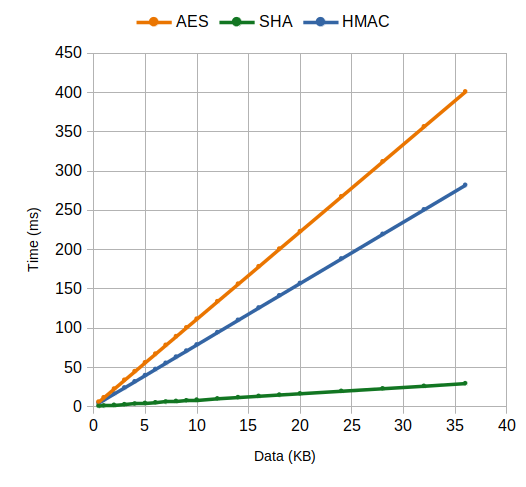
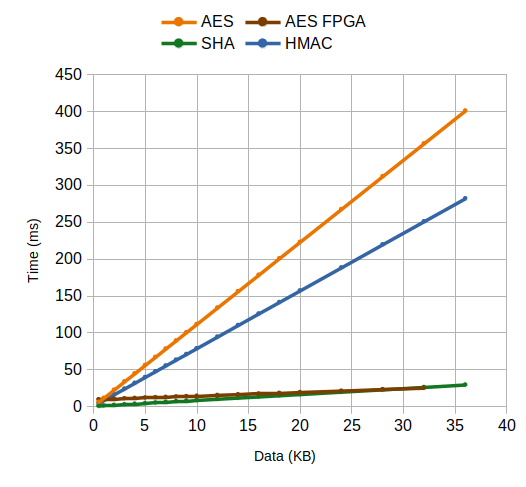
Finished Chapter 6 rework

diff --git a/Chapters/Thesis-MSc-Chapter_6.tex b/Chapters/Thesis-MSc-Chapter_6.tex
@@ -31,6 +31,7 @@ The communication channel performance was measured by transmitting a certain amo
 For the remaining tested components, this test method produced unstable results due to the communications overhead on every test run.
 Thus, the remaining services were tested by running the service 100 times inside the device, for each API call. The measured processing time is divided by 100 to obtain the average time. This method minimizes the communications overhead, since it is only done once, so the isolated service can be more accurately assessed.
 The services were run 100 times inside the device, since it produced below 1\% variance for every test run of every service.
+Due to the write limitations of the PUF and eNVM, the performance tests were performed with only 10 repetition to preserve its write cycles.
 
 The SmartFusion2 and implemented services were tested taking into account three different time components \(T_{Total} = T_{Call} + T_{Transmittion} + T_{Service}\). The \(T_{Call}\) component is the elapsed time for invoking the PKCS\#11 API, before any data is transmitted. From the results, we can conclude that the impact of this component on the performance is negligible, since it is practically always 0.
 The data transmission time follows the performance behaviour of the communications channel.
@@ -69,12 +70,9 @@ The performance of the data channel, in milliseconds, can be modelled by a linea
 % -----------------------------------------------------
 \subsection{SmartFusion2 Services}\label{chap:evaluation:board}
 
-% TODO - AES FPGA core test results!!!!
-
-All the security accelerators of the SmartFusion2 SoC were tested. This includes the TRNG, AES, SHA, HMAC, KeyTree and ECC scalar multiplication and point addition services.
+All the security accelerators of the SmartFusion2 SoC were tested. This includes the TRNG, AES accelerator, SHA, HMAC, KeyTree and ECC scalar multiplication and point addition services.
 Additionally, a side-channel resistant 128 bit AES core implemented in the FPGA was also tested.
 The isolated service processing time and throughput results are presented in Figures \ref{fig:performance:core-time} and \ref{fig:performance:core-tput}. Twenty different data sizes were used in the test, from 0.5 KB up to 36 KB.
-The TRNG service was tested by generating 16 random bytes, up to the maximum allowed of 128 bytes. As expected the performance barely increases with the data size.
 \begin{figure}[h!]
 	\centering     %%% not \center
 	\subfigure[Processing Time]{\label{fig:performance:core-time}\includegraphics[width=79mm]{Images/core-time.png}}
@@ -84,6 +82,7 @@ The TRNG service was tested by generating 16 random bytes, up to the maximum all
 The AES service was tested with all possible variations. Namely, with 128 bit and 256 bit keys, with all four available modes and with encryption and decryption. Only one result is shown, since there was no variation among them. The AES mode, key size or encryption/decryption operation does not impact the performance. Therefore, there is no performance advantage in choosing CTR mode over CBC mode, or any other mode.
 Overall, the AES and HMAC total service time increases faster, compared to SHA, which increases significantly slower.
 The ECC services are the slowest, particularly the scalar multiplication (ECDH), with each run taking more than half a second.
+The TRNG service was tested by generating 16 random bytes, up to the maximum allowed of 128 bytes. As expected the performance barely increases with the data size.
 
 Figure \ref{fig:performance:core-tput} represents the throughput calculated from the processing time results previously gathered. It shows all services throughput, shown in KB/ms, increases and eventually stabilizes at a specific value. AES stabilizes at around 1.2 KB/ms, and both SHA and HMAC at around 0.1 KB/ms.
 
@@ -113,33 +112,28 @@ The AES software implementation was tested with encryption in CBC mode and a 256
 % -----------------------------------------------------
 \subsubsection*{Memory Performance}\label{chap:evaluation:services:memory}
 
-The read and write performance of the different device's memories, along with the PUF service were tested. Both eSRAM and eNVM memories were tested from 0.5 KB to 36 KB. The PUF performance was tested from 16 bytes, up to its limit of 512 bytes. For the PUF and eNVM performance, due to the write cycle limitations, each test was performed with only 10 repetitions, compared to the usual 100 with the second configuration. Precautions were also taken, by changing the eNVM page being written for every repetition, to avoid exhausting any particular page.
-The performance results depicted in Table \ref{tab:memory-model} were calculated according to the linear model.
+The read and write performance of the different device's memories, along with the PUF service were tested. Both eSRAM and eNVM memories were tested from 0.5 KB to 36 KB. The PUF performance was tested from 16 bytes, up to its limit of 512 bytes.
+The performance results for the RAM, NVM and PUF are pictured in Figures \ref{fig:performance:memory-time} and \ref{chap:appendixB} of Appendix \ref{chap:appendixB}.
 
+The results show the PUF service barely fluctuates with the data size, since a slot only goes up to 512 bytes. It has an almost constant read and write performance.
+Regarding the eNVM, its write performance deteriorates significantly with increasing data sizes.
+The RAM write performance is comparable to the eNVM read performance. The RAM read performance was also tested, however, the results are not shown due to its extremely negligible and erratic performance. Instead, a simple increment operation test is presented, in order to show a benchmark for the RAM's performance.
+
+The linear model values were calculated and are presented in Table \ref{tab:memory-model}.
 \input{tables_and_code/memory-model.tex}
 
-We can observe the PUF service barely fluctuates with the data size, since it is limited to 512 bytes per slot. The constant value is the significant portion, for both read and write performance.
-The eNVM write performance deteriorates significantly with increasing data sizes, it is 298.10 ms slower per KB of data. The read performance is negligible.
-The RAM write performance is comparable to the eNVM read performance. The RAM read performance was also tested, however, the results are not shown due to its extremely negligible and erratic performance. Instead, a simple increment operation test is presented, in order to show a benchmark for the RAM's performance.
 
 % -----------------------------------------------------
 % -----------------------------------------------------
 \subsection{Implemented Services}\label{chap:evaluation:services}
 
-All implemented services from Chapter \ref{chap:implementation} were tested from data sizes of 0.5 KB up to 36 KB. Each service's performance depends on the used accelerator's, memory access and implemented logic.
-The tested services were, encryption and authentication, decryption and authentication, both using the AES accelerator and the HMAC software implementation; the key import service, using the AES, HMAC and PUF cores, ECDSA and ECDH, both using the ECC scalar multiplication accelerator. ECDSA also uses the ECC point addition core. It is worth noting that the encryption service also uses the TRNG service, to generate a random IV. The continuous encryption and decryption services, used AES in CBC mode, the HMAC software implementation and a 36 KB buffer for data. The services were tested with data sizes up to 200 KB.
-Tests were performed with the second configuration, without data transmission, to test the processing time of the isolated services.
-Similarly to the previous tests, the time performance results evolve linearly. The obtained values are presented in Table \ref{tab:services-model}.
+This section presents the performance results of the implemented services from Chapter \ref{chap:implementation}. Each service's performance depends on the used accelerator's, memory access and implemented logic.
+The tested services were, encryption and authentication, decryption and authentication, both using the AES accelerator and the HMAC software implementation; the key import service, using the AES, HMAC and PUF cores, ECDSA and ECDH, both using the ECC scalar multiplication accelerator. ECDSA also uses the ECC point addition core. It is worth noting that the encryption service also uses the TRNG service, to generate a random IV. 
+The continuous encryption and decryption services used a 36 KB buffer for data.
 
-\input{tables_and_code/services-model.tex}
-
-Analyzing the results, both encryption/decryption and authentication services have very similar values, due to being based on the same service's and AES encryption and decryption having no discernible performance difference.
-There is however a detectable difference in the constant component, due to the random IV generation with the board's TRNG on the encryption service.
-The import keys service tested up to 1 KB of key data, stored in RAM memory instead of eNVM. The generated MAC is stored in the PUF slot. The service was tested with 10 repetitions, instead of 100, to preserve eNVM write cycles.
-The service performance barely varied, due to the small data interval. Its performance is depicted in Figure \ref{fig:performance:nvm-puf-time}, compared to the PUF and eNVM read and write performance. This figure is a good comparison for both key management options.
-Key generation with ECDH and the SHA-based KeyTree derivation function performs at a constant time of 578.092 ms.
-Scalar multiplication has a big impact on the performance for both ECDH and ECDSA.
-The median average percentage error for the continuous encryption/decryption models is below 0.19\%, so the models almost perfectly represent its performance.% The import keys service model has the highest error with 2.86\%.
+The performance of the key import service is depicted in Figure \ref{fig:performance:nvm-puf-time} in Appendix \ref{chap:appendixB}. The figure compares this service to the PUF read and write performance, in order to compare both key storage options.
+Just as the PUF service, the key import service barely varied, due to the small data interval.
+Analyzing the results in Figure	\ref{fig:performance:services-time} of Appendix	\ref{appendixB}, both encryption/decryption and authentication services have very similar values, due to being based on the same service's and AES encryption and decryption having no discernible performance difference.
 
 \begin{figure}[h!]
 	\centering
@@ -147,22 +141,37 @@ The median average percentage error for the continuous encryption/decryption mod
 	\caption{Continuous encryption and decryption throughput evolution for increasing input data sizes}
 	\label{fig:performance:services-tput}
 \end{figure}
-
 Figure \ref{fig:performance:services-tput} plots the throughput (KB/s) values for the continuous encryption and decryption services. Throughput steadily increases and stabilizes after 10 KB, at around 68 KB/s, for both services.
-The continuous encryption/decryption implementation raises an efficiency question. An optimal buffer size must be chosen. The previous tests were performed with a 36 KB buffer.
-To answer this, the impact of the buffer size on performance must be studied.
-This was achieved by performing the same test on the continuous encryption service, with varying buffer sizes, from 0.1 KB up to 35 KB. Figure \ref{fig:performance:buffer-tput} shows the maximum, average and minimum throughput for each buffer size.
-All tests revealed the same linear performance behaviour as the previous test with a 36 KB buffer. The worst performance, and therefore lower throughput, is achieved with low data sizes of 0.5 KB. The time evolution is linear, and the throughput eventually stabilizes around its maximum value, with data sizes higher than 20 KB.
-A smaller range from the minimum to maximum throughput, for a particular buffer size, indicates the throughput increases slower, as data size increases.
 
+Similarly to the previous tests, the time performance results evolve linearly. The obtained values are presented in Table \ref{tab:services-model}.
+\input{tables_and_code/services-model.tex}
+
+By analysing the calculated models we can detect a difference in the constant component of the encryption service compared to decryption. This is due to the random IV generation with the board's TRNG on the encryption service.
+Key generation with ECDH performs at a constant time of 578.092 ms, and ECDSA at 629.434 ms.
+Scalar multiplication has a big impact on the performance for both ECDH and ECDSA.
+The median average percentage error for the continuous encryption/decryption models is below 0.19\%, so the models almost perfectly represent its performance.% The import keys service model has the highest error with 2.86\%.
+
+% ---------
+As mentioned previously, the continuous encryption/decryption with MAC implementation uses a 36 KB buffer. Thus, the service can receive chunks of up to 36 KB at a time.
+Since the server is continuous and can encrypt and authenticate a limitless amount of data, the buffer does not necessarily need to be the maximum possible value. The service might have comparable performance with a smaller buffer, which frees up memory space for further implementation code.
+
+In order to understand the impact of the buffer size on performance, the previous test on the encryption and MAC services was repeated, with varying buffer sizes, from 0.1 KB up to 35 KB.
+All tests revealed the same linear performance behaviour as the previous test with a 36 KB buffer. In order to compare and understand the service performance for each buffer buffer size, the maximum, minimum and average throughput are pictured in Figure \ref{fig:performance:buffer-tput}.
 \begin{figure}[h!]
 	\centering
 	\includegraphics[width=0.7\textwidth]{./Images/buffer-tput.png}
 	\caption{Continuous encryption and MAC throughput evolution with increasing buffer sizes}
 	\label{fig:performance:buffer-tput}
 \end{figure}
+The worst performance, and therefore lower throughput, is achieved with the lowest data size of 0.5 KB. The throughput eventually stabilizes around its maximum value, with data sizes higher than 20 KB.
+A smaller range from the minimum to maximum throughput, for a particular buffer size, indicates the throughput increases slower, as data size increases.
 
-Analysing the plot, the average throughput significantly increases from 0,1 KB up until 5 KB, after which, the average throughput stabilizes around 66 KB/s and the maximum at 68 KB/s. The minimum throughput stabilizes around 49.5 KB/s, after a buffer size of 0.5 KB. If the goal is to maximize throughput, there is no advantage in using a buffer bigger than 10 KB. Even a 5 KB buffer has almost identical performance. Additional trade-offs can be implemented, if the amount of data available into system is known beforehand. For higher data sizes, where the maximum throughput is achieved, a buffer size of at least 5 KB is a good choice. However, if the system mainly receives small data of around 0.5 KB, the minimum throughput becomes relevant. It becomes stable from a buffer of 0.5 KB, up to a 35 KB. For this use case, if memory space is needed, a 0.5 KB buffer is acceptable. The extra saved memory can be used to implement more functionalities.
+Analysing the plot, the average throughput significantly increases from 0,1 KB up until 5 KB, after which, the average throughput stabilizes around 66 KB/s and the maximum at 68 KB/s. 
+If the goal is to maximize throughput, there is no advantage in using a buffer bigger than 10 KB. Even a 5 KB buffer has almost identical performance. 
+
+The minimum throughput spikes at 49.5 KB/s with a 0.5 KB buffer, then is relatively constant. As discussed before, the minimum throughput is achieved at the lowest processed data size of 0.5 KB. Thus, by analysing the graphic, the minimum throughput increases until the buffer size (0.5 KB) is equal the amount of data being processed (0.5 KB). After that, there is no benefit in having a bigger buffer size, since the lowest amount of processed data is still 0.5 KB.
+Therefore, if the amount of data which will be processed is known beforehand, the system can be setup with a buffer of equal size, so as to maximize throughput.
+% For higher data sizes, where the maximum throughput is achieved, a buffer size of at least 5 KB is a good choice. However, if the system mainly receives small data of around 0.5 KB, the minimum throughput becomes relevant. It becomes stable from a buffer of 0.5 KB, up to a 35 KB. For this use case, if memory space is needed, a 0.5 KB buffer is acceptable. The extra saved memory can be used to implement more functionalities.
 
 % -----------------------------------------------------
 % -----------------------------------------------------

diff --git a/Chapters/Thesis-MSc-Chapter_5.tex b/Chapters/Thesis-MSc-Chapter_5.tex
@@ -89,7 +89,7 @@ The downside of this approach is the device does not know the amount of data it 
 The reverse operation for authentication and decryption of data is exactly the same. The only change is the operation code value is different, so the device knows what operation to perform.
 To avoid padding and guarantee CBC's security, ciphertext stealing was implemented.
 
-As previously introduced, the board's AES implementation is not resistant to side-channel attacks, such as DPA. This means attackers with physical access to the device, can potentially read and compromise the keys stored internally. In order to mitigate this and build a more robust system, a 128 bit AES core implemented in the board's FPGA, resistant to side-channel attacks, was tested with this service.
+As previously introduced, the board's AES implementation is not resistant to side-channel attacks, such as DPA. This means attackers with physical access to the device, can potentially read and compromise the keys stored internally. In order to mitigate this and build a more robust system, a 128 bit AES core implemented in the board's FPGA, resistant to side-channel attacks, was also tested with this service.
 
 % -----------------
 \subsection{Key Management}\label{chap:implementation:services:key-import}
@@ -97,10 +97,9 @@ As previously introduced, the board's AES implementation is not resistant to sid
 Symmetric and asymmetric keys are essential for the functionality and security of the system and its services. Secure symmetric keys are necessary for the security of communications, while asymmetric keys are needed for key agreement and digital signatures.
 All these keys are stored inside the device, and the system is responsible for their security and management. Thus, it is essential for the system to have a secure and flexible key management solution, which takes advantage of the device's secure storage.
 
-As described in Section \ref{chap:background:computing:smartfusion}, the SmartFusion2 provides a secure storage service, the SRAM-PUF. It has 56 available key slots, and one key can be saved in each slot with a maximum of 512 bytes for a single key.
-The eNVM memory, used by the service, is limited to 1000 writes for a predicted lifespan of 20 years. Thus, there is a limit on the key storage frequency in the slots. The service should be used carefully, restraining how often it is written to, in order to preserve its lifespan.
+As described in Section \ref{chap:background:computing:smartfusion}, the SmartFusion2 provides a secure storage service, the SRAM-PUF. It has 56 available key slots, where one key can be saved in each slot with a maximum of 512 bytes for a single key.
+The service uses private eNVM blocks to store part of the key data. Since the eNVM is limited to 1000 writes for each page, for a predicted lifespan of 20 years. Thus, there is a limit on the key storage frequency in the slots. The service should be used carefully, restraining how often it is written to, in order to preserve its lifespan.
 
-%The keys are stored encrypted and authenticated with a dedicated key, following the protocol described in Section \ref{chap:implementation:services:secure}.
 So as to mitigate the limitation of the PUF storage, an alternate solution, in which the keys are stored in a non volatile memory was developed, as depicted in Figure \ref{fig:implementation:key-management}.
 \begin{figure}[h!]
 	\centering
@@ -137,7 +136,7 @@ The SmartFusion2 SoC provides the necessary ECC scalar multiplication accelerato
 \subsection{TCP Channel}\label{chap:implementation:services:secure:tcp}
 
 With the secure data exchange service, entities can securely trade messages using an offline service such as e-mail or an online chat service.
-In order to truly establish a secure communications channel, and demonstrate the common developer interface, the secure data service was used to encrypt and authenticate a TCP connection. A TCP implementation using Windows sockets is used to exchange data through a channel, between a client and server, running on the same computer. As pictured in Figure \ref{fig:implementation:tcp}, the library was altered, to call the PKCS\#11 API of the SmartFusion2 system, to encrypt the plaintext data in each TCP packet, before it is sent. Likewise, when a packet is received, the decryption API is called, in order to retrieve the plaintext.
+In order to truly establish a secure communication channel, and demonstrate the common developer interface, the secure data service was used to encrypt and authenticate a TCP connection. A TCP implementation using Windows sockets is used to exchange data through a channel, between a client and server, running on the same computer. As pictured in Figure \ref{fig:implementation:tcp}, the library was altered, to call the PKCS\#11 API of the SmartFusion2 system, to encrypt the plaintext data in each TCP packet, before it is sent. Likewise, when a packet is received, the decryption API is called, in order to retrieve the plaintext.
 \begin{figure}[h!]
 	\centering
 	\includegraphics[width=0.5\textwidth]{./Images/tcp.png}

diff --git a/Chapters/Thesis-MSc-AppendixB.tex b/Chapters/Thesis-MSc-AppendixB.tex
@@ -7,7 +7,21 @@
 
 \begin{figure}[h!]
 	\centering
+	\includegraphics[width=0.7\textwidth]{./Images/memory-time.png}
+	\caption{Performance comparison of RAM and eNVM read operations up to 36 KB}
+	\label{fig:performance:memory-time}
+\end{figure}
+
+\begin{figure}[h!]
+	\centering
 	\includegraphics[width=0.7\textwidth]{./Images/nvm-puf-time.png}
 	\caption{Performance comparison of PUF and eNVM read and writes, along with the key importation service}
 	\label{fig:performance:nvm-puf-time}
+\end{figure}
+
+\begin{figure}[h!]
+	\centering
+	\includegraphics[width=0.7\textwidth]{./Images/services-time.png}
+	\caption{Performance comparison of continuous encryption and MAC and continuous decryption and MAC}
+	\label{fig:performance:services-time}
 \end{figure}
